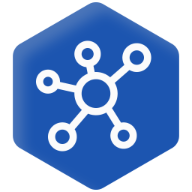
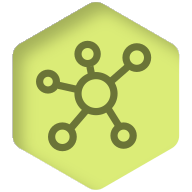
refactor: change colors to style guide, add master buttons

diff --git a/components/Layout.tsx b/components/Layout.tsx
@@ -35,8 +35,6 @@ const Layout = ({ children, title, childrenInScreenVH }: ILayout) => {
                             <Link href="/" lang={"en"} key={"en"}><span className={ classes("cursor-pointer hover:font-bold", lang === "en" && "font-bold") }>EN</span></Link>
                             <span className="mx-2">/</span>
                             <Link href="/" lang={"de"} key={"de"}><span className={ classes("cursor-pointer hover:font-bold", lang === "de" && "font-bold") }>DE</span></Link>
-                            <span className="mx-2">/</span>
-                            <Link href="/" lang={"ru"} key={"ru"}><span className={ classes("cursor-pointer hover:font-bold", lang === "ru" && "font-bold") }>RU</span></Link>
                         </div>
                     </nav>
                     { childrenInScreenVH }
@@ -56,8 +54,11 @@ const Layout = ({ children, title, childrenInScreenVH }: ILayout) => {
                     </Link>
                 </div>
                 <div className="flex items-center space-x-16 text-white-soft text-3xl font-medium">
+                    <a className="text-white-soft border-b-4 border-transparent hover:border-white-soft transition duration-100" href="#">
+                        { t`common:projekttag.master-title` }
+                    </a>
                     <a className="text-white-soft border-b-4 border-transparent hover:border-white-soft transition duration-100" href="https://www.informatik.uni-bremen.de/projekttag/2021/">
-                        { t`common:projekttag.title` }
+                        { t`common:projekttag.bachelor-title` }
                     </a>
                     <Link href="/imprint">
                         <a className="text-white-soft border-b-4 border-transparent hover:border-white-soft transition duration-100">

diff --git a/pages_/index.tsx b/pages_/index.tsx
@@ -80,8 +80,11 @@ const IndexPage = () => {
             </section>
             <section className="mb-64 md:mb-96">
                 <h1 className="mb-8 md:mb-16 max-w-4xl xl:max-w-7xl">{ t`common:cta.title` }</h1>
-                <a href="https://www.informatik.uni-bremen.de/projekttag/2021/">
-                    <Button size={ ButtonSize.XL }>{ t`common:cta.button-label` }</Button>
+                <a href="https://www.informatik.uni-bremen.de/projekttag/2021/" className="mr-6">
+                    <Button size={ ButtonSize.XL }>{ t`common:cta.button-label.bachelor` }</Button>
+                </a>
+                <a href="#">
+                    <Button size={ ButtonSize.XL }>{ t`common:cta.button-label.master` }</Button>
                 </a>
             </section>
         </Layout>

diff --git a/pages_/imprint.tsx b/pages_/imprint.tsx
@@ -18,7 +18,7 @@ const IndexPage = () => {
                 <p className="font-medium text-xl md:text-3xl leading-snug md:leading-snug mb-6">
                     { t`common:imprint.contact-inquiries` }{" "}{ mailLink }
                 </p>
-                <p className="font-medium text-xl md:text-3xl leading-snug md:leading-snug">
+                <p className="font-medium text-xl md:text-3xl mb-16 leading-snug md:leading-snug">
                     Universität Bremen <br/>
                     Fachbereich 03 Informatik <br/>
                     AG Rechnernetze <br/>

diff --git a/tailwind.config.js b/tailwind.config.js
@@ -15,7 +15,7 @@ module.exports = {
         extend: {
             colors: {
                 blue: {
-                    "namib": "#1C55B0",
+                    "namib": "#6b7437",
                 },
                 white: {
                     "soft": "#fbfbfb",

diff --git a/.gitlab/issue_templates/Bug Report.md b/.gitlab/issue_templates/Bug Report.md
@@ -1,0 +1,30 @@
+## Summary
+
+<!-- Summarize the bug encountered concisely -->
+
+## Steps to reproduce
+
+<!-- How one can reproduce the issue - this is very important -->
+
+## What is the current bug behavior?
+
+<!-- What actually happens -->
+
+## What is the expected correct behavior?
+
+<!-- What you should see instead -->
+
+## Relevant logs and/or screenshots
+
+<!-- Paste any relevant logs - please use code blocks (```) to format console output, logs, and code, as
+it's very hard to read otherwise. -->
+
+## Possible fixes
+
+<!-- If you can, link to the line of code that might be responsible for the problem -->
+
+## Related Issues/MRs
+
+<!-- Add links to other issues/MRs here -->
+
+/label ~"type::bug"

diff --git a/.gitlab/issue_templates/New Feature.md b/.gitlab/issue_templates/New Feature.md
@@ -1,0 +1,17 @@
+## Summary
+
+<!-- Insert a summary of the new feature here -->
+
+## Description
+
+<!-- Insert a description of the new feature here -->
+
+## Implementation steps
+
+<!-- Insert a description of the possible implementation steps here -->
+
+## Related Issues/MRs
+
+<!-- Add links to other issues/MRs here -->
+
+/label ~"type::feature"

diff --git a/.gitlab/issue_templates/Discussion.md b/.gitlab/issue_templates/Discussion.md
@@ -1,0 +1,13 @@
+## Summary
+
+<!-- Add a summary here -->
+
+## Discussion Points
+
+<!-- Add discussion points here -->
+
+## Related Issues/MRs
+
+<!-- Add links to other issues/MRs here -->
+
+/label ~"type::discussion"

diff --git a/.gitlab/issue_templates/Documentation.md b/.gitlab/issue_templates/Documentation.md
@@ -1,0 +1,13 @@
+## Summary
+
+<!-- Insert a summary here -->
+
+## Description
+
+<!-- Insert a description here -->
+
+## Related Issues/MRs
+
+<!-- Add links to other issues/MRs here -->
+
+/label ~"type::documentation"

diff --git a/.gitlab/issue_templates/Test.md b/.gitlab/issue_templates/Test.md
@@ -1,0 +1,13 @@
+## Summary
+
+<!-- Add a summary here -->
+
+## Description
+
+<!-- Add a description here -->
+
+## Related Issues/MRs
+
+<!-- Add links to other issues/MRs here -->
+
+/label ~"type::test"

diff --git a/.gitlab/issue_templates/Misc.md b/.gitlab/issue_templates/Misc.md
@@ -1,0 +1,11 @@
+## Summary
+
+<!-- Insert a summary here -->
+
+## Description
+
+<!-- Insert a description here -->
+
+/label ~"type::misc"
+
+<!-- TODO: Is this structure okay? -->
